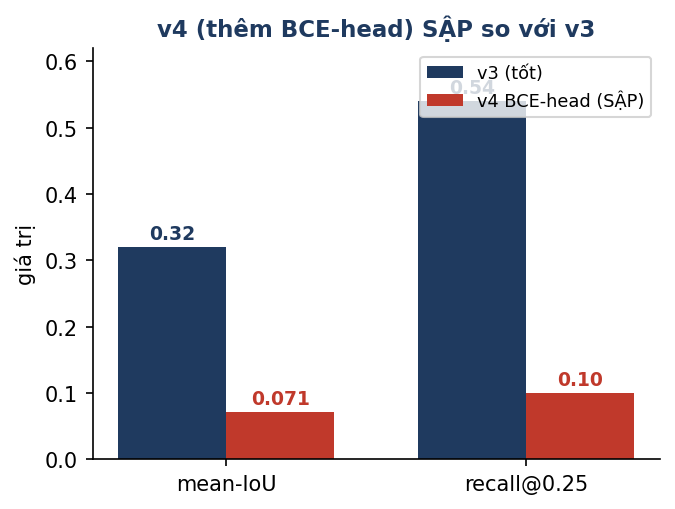
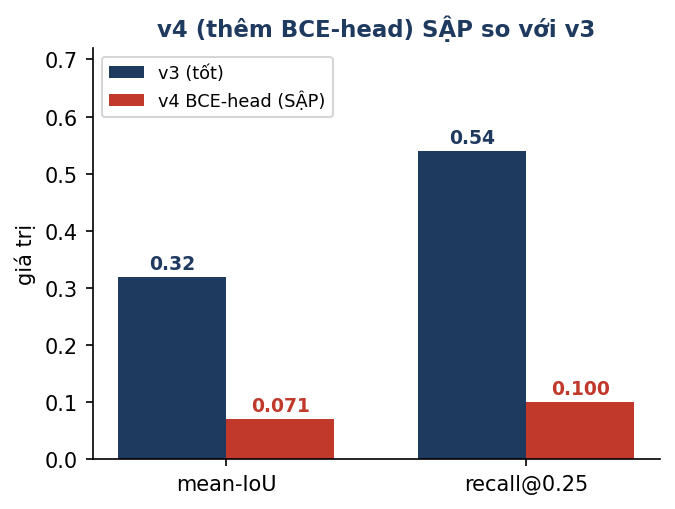
cai_tien: sửa deck theo review vòng 2
- Slide 4: kéo hình 3-task lên, caption hết bị footer đè (major)
- Slide 9: legend chart BCE sang trái + nới trục, hết đè số 0.54 (major)
- Slide 3: crop lại fig4_arch gọn mép phải (bỏ ký tự lạ)
- Slide 5: crop lại fig2_right hiện đủ nhãn VinDr-Mammo
- Slide 7: bỏ caption chart trùng; Slide 15: 'inference'→'vừa' đồng cột

diff --git a/seminar/cai_tien/build_slides_pptx.py b/seminar/cai_tien/build_slides_pptx.py
@@ -214,7 +214,7 @@ bullets(s, [
   ("**3 task region-centric:** Region→Text · **Text→Region (đồ án làm task này)** · Grounded Report.", 0),
   ("Loss = **cross-entropy ngôn ngữ thuần** (không có loss hình học cho box); ảnh 3D chỉ lấy **1 lát trung tâm**; **16× H800, vài ngày**.", 0),
 ], 0.4, bt, 9.2, 2.2)
-image(s, "seminar/code/fig4_tasks.png", 1.15, 3.95, w=7.7,
+image(s, "seminar/code/fig4_tasks.png", 1.35, 3.55, w=7.3,
       caption="3 task region-centric: Region→Text · Text→Region · Grounded Report (Fig.4)")
 footer(s, 4)
 notes(s, "Câu nói: Hai giai đoạn — đầu tiên dạy 'cầu' nối ảnh–chữ, sau đó dạy 'não' làm việc theo lệnh. Box chỉ là chữ nên vẫn dùng loss ngôn ngữ bình thường.")
@@ -258,8 +258,7 @@ bullets(s, [
   ("⚠️ 1 cặp cấu hình minh hoạ, **chưa lặp seed** — chỉ cho thấy HƯỚNG.", 1),
   ("⚠️ KHÔNG nói “Gemma giỏi hơn MedRegA” — phải fine-tune y khoa mới cạnh tranh.", 1),
 ], 0.4, bt+2.05, 5.5, 1.6, base=11)
-image(s, "seminar/code/iou_frozen_vs_unfrozen.png", 6.2, bt+0.1, w=3.5,
-      caption="pIoU: đóng băng vs mở khoá vision")
+image(s, "seminar/code/iou_frozen_vs_unfrozen.png", 6.2, bt+0.25, w=3.6)
 footer(s, 7)
 notes(s, "Câu nói: Đóng góp đầu tiên là chứng minh khả thi — tái tạo năng lực khoanh vùng trên mô hình nhỏ hơn nhiều, chỉ 1 GPU. Triết lý: đổi 'rộng' (8 modality) lấy 'sâu' (1 task).")
 
@@ -375,7 +374,7 @@ table(s, ["#", "Hạn chế (nguồn)", "Hướng đi tiếp", "Chi phí"], [
   ["①", "Sót u isointense [ĐO ĐƯỢC]", "Multi-window (cửa sổ gan hẹp)", "🟢 rất thấp"],
   ["②", "3D→2D mất thông tin [GIẢ ĐỊNH]", "2.5D stack (z−1/z/z+1 vào RGB)", "🟢 thấp"],
   ["③", "LiTS đơn pha [GIẢ ĐỊNH]", "CT đa pha — trần của DỮ LIỆU", "🔴 cần data"],
-  ["⑤", "2 ca âm, 1 dataset [ĐO ĐƯỢC]", "External validation + FROC + calibration", "🟡 inference"],
+  ["⑤", "2 ca âm, 1 dataset [ĐO ĐƯỢC]", "External validation + FROC + calibration", "🟡 vừa"],
 ], 0.4, bt+0.15, 9.2, colw=[0.4,3.4,3.9,1.5], fs=10, hfs=10, rh=0.52)
 footer(s, 15)
 notes(s, "Câu nói: Mạch 1 — làm ảnh giàu hơn (multi-window, 2.5D, đa pha) và kết quả đáng tin hơn (external validation, thêm ca âm). ①⑤ nối thẳng số Kết quả; ②③ suy từ thiết kế nên ghi rõ CHƯA đo.\n\nExternal validation = kiểm trên bộ CT khác (IRCADb/MSD). FROC = đường cong phát hiện đa tổn thương. calibration = hiệu chỉnh độ tự tin.")